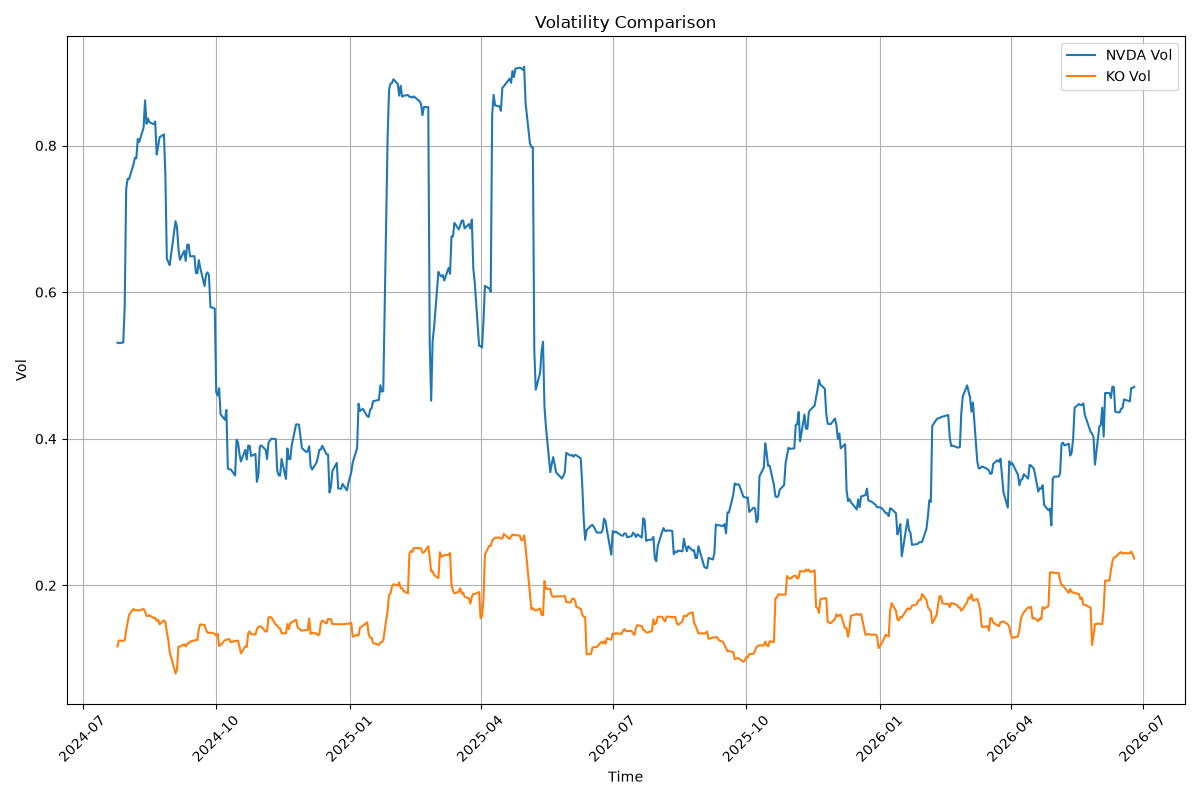
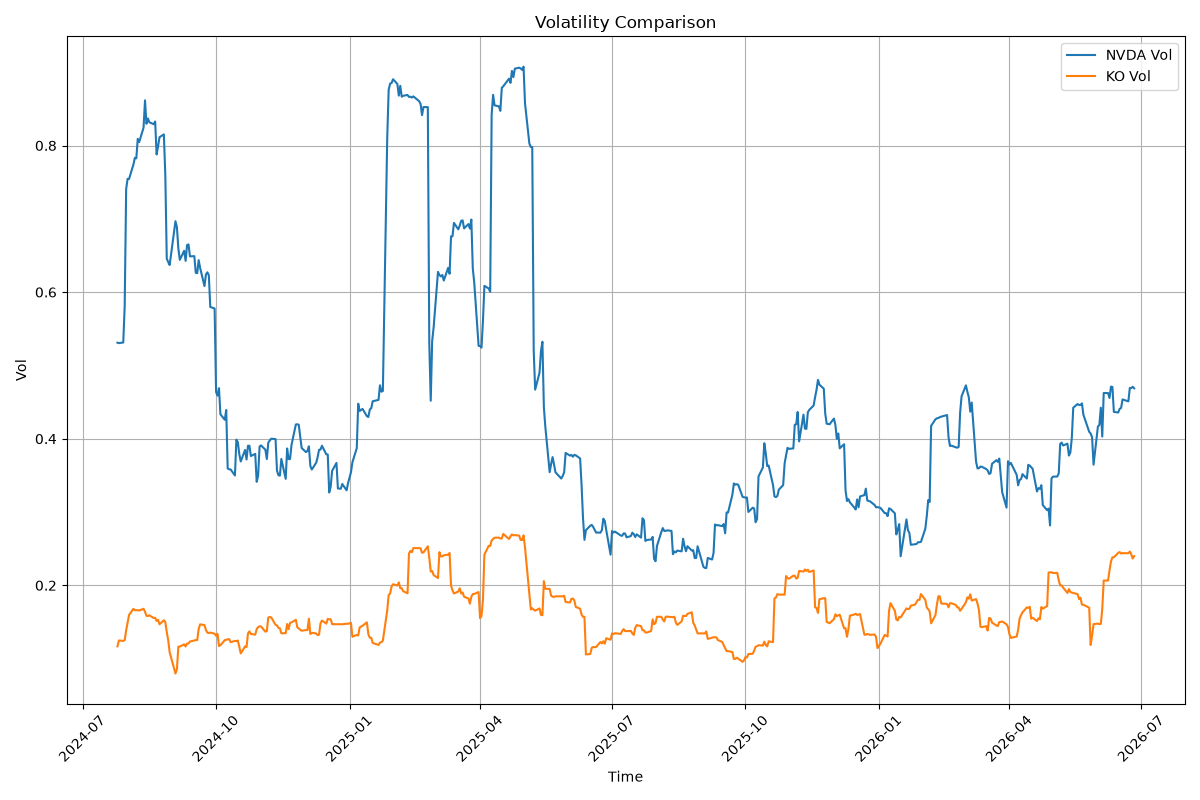
chnged some lables of plotting comparison

diff --git a/24_06.py b/24_06.py
@@ -61,8 +61,8 @@ def add_rsi(data, window=14):
         rs = gain.rolling(window=window).mean() / loss.rolling(window=window).mean()
         df["RSI"] = 100 - (100 / (1 + rs))
         df.dropna(inplace=True) 
-        print(f"Overbought level for {ticker}: {(df['RSI'] > 70).mean() * 100:.1f}%")
-        print(f"Oversold level for {ticker}: {(df['RSI'] < 30).mean() * 100:.1f}%")
+        print(f"Overbought level for {ticker} as percentage of total days: {(df['RSI'] > 70).mean() * 100:.1f}%")
+        print(f"Oversold level for {ticker} as percentage of total days: {(df['RSI'] < 30).mean() * 100:.1f}%")
 
     return data
 
@@ -84,7 +84,7 @@ def plotting_vol(data):
 
 def plotting_correlation(correlation_2): 
     plt.figure(figsize=(12,8))
-    plt.plot(correlation_2, label="60-Day Rolling Correlation")
+    plt.plot(correlation_2, label="60-Day Rolling Correlation of log retuns")
     plt.xlabel("Time")
     plt.ylabel("60-Day Rolling Correlation for log returns")
     plt.axhline(0, color="black", linewidth=0.8) 